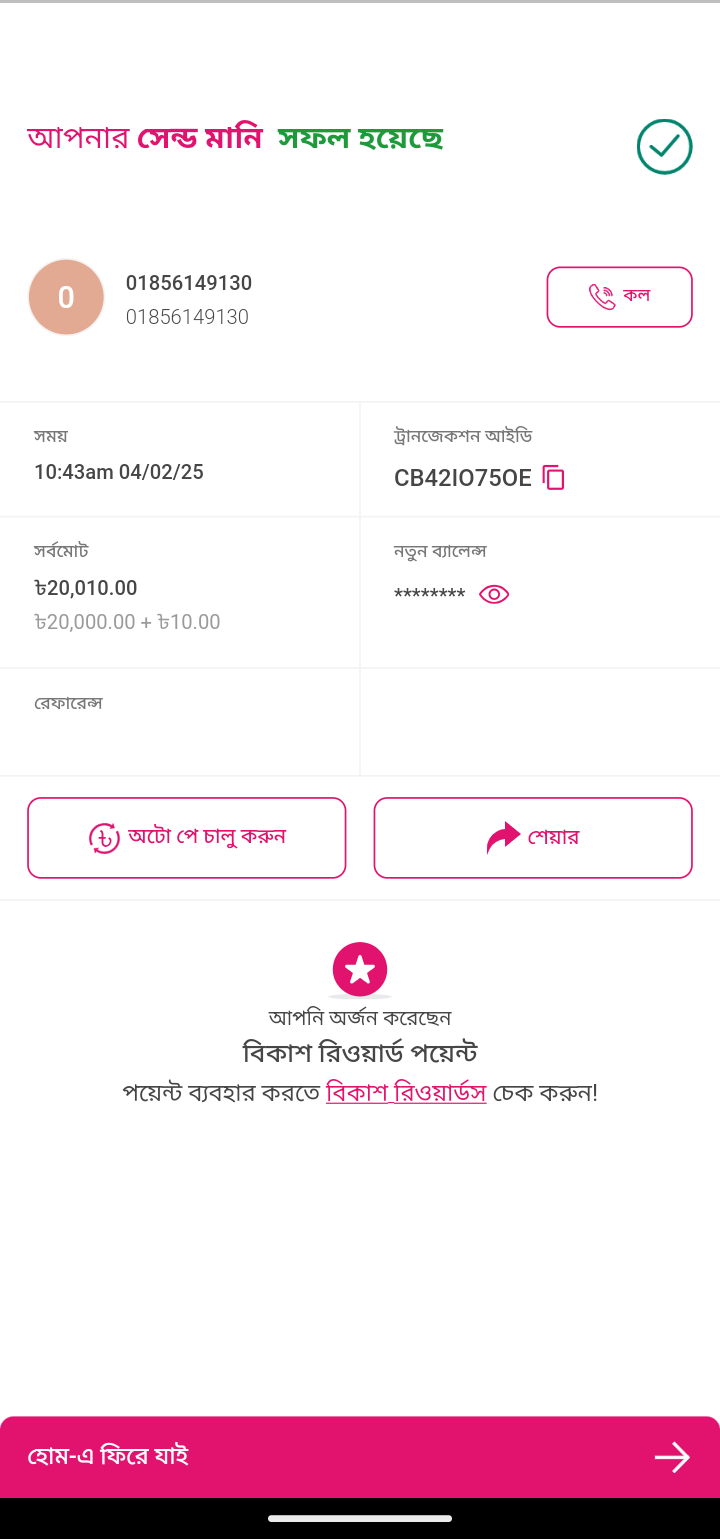
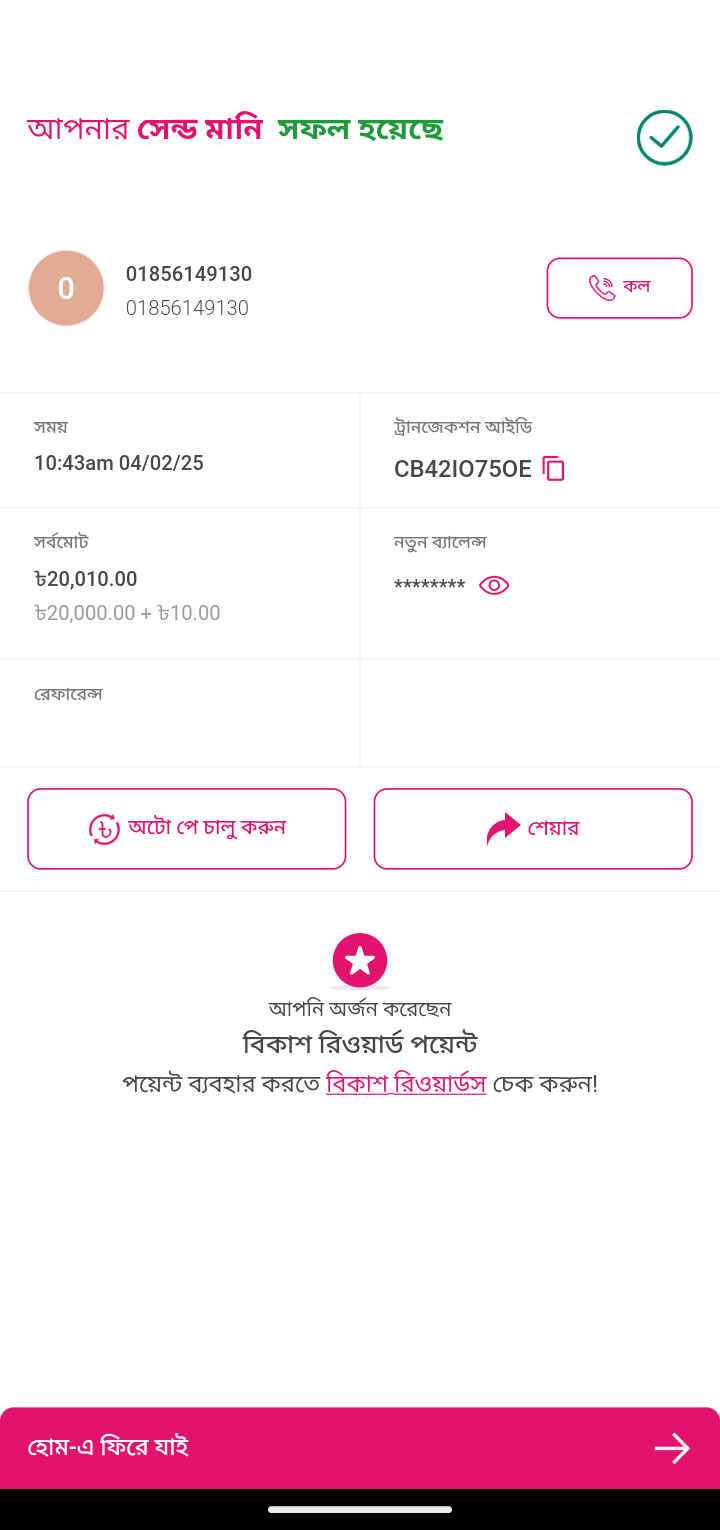
fixed

diff --git a/style.css b/style.css
@@ -45,3 +45,58 @@ img{
  outline: none;
  border: none;
 }
+
+
+.number-1,.number-2 {
+    /* border: 1px solid; */
+    border: border 1px solid black;
+    background: white;
+    width: fit-content;
+    height: fit-content;
+    display: flex;
+    justify-content: center;
+    align-items: center;
+    color: #494949d9;
+    font-size: 15px;
+    font-weight: 550;
+    position: absolute;
+    z-index: 10;
+    top: 154px;
+     left: 73px;
+    outline: none;
+}
+
+.number-2{
+    color:#717171;
+    font-weight: 400;
+        top: 172px;
+        left: 73px;
+        outline: none;
+        border:none
+    }
+
+    .time{
+        position: absolute ;
+        z-index: 10;
+        top: 263px;
+            left: 21px;
+            outline: none;
+            border: none;
+            font-size: 13.5px;
+            font-weight: 550;
+            color: #494949d9;
+            background: white;
+    }
+    .id{
+        position: absolute ;
+        z-index: 10;
+        text-transform: uppercase;
+        top: 267px;
+            left: 230px;
+            outline: none;
+            border: none;
+            font-size: 13.5px;
+            font-weight: 700;
+            color: #494949d9;
+            background: white;
+    }

diff --git a/send.html b/send.html
@@ -1,0 +1,26 @@
+<!DOCTYPE html>
+<html lang="en">
+
+<head>
+    <meta charset="UTF-8">
+    <meta name="viewport" content="width=device-width, initial-scale=1.0">
+    <title></title>
+    <link rel="stylesheet" href="style.css">
+</head>
+
+<body>
+    <div class="container">
+        <div class="bk-send ">
+            <img src="./img/send-mony.png" alt="">
+            <div contenteditable="" class="number-1">0156339136</div>
+            <div contenteditable="" class="number-2">0156339136</div>
+
+            <!-- time -->
+        <div contenteditable="" class="time">12:30am 04/02/25</div>
+        <div contenteditable="" class="id">cb42io75oe</div>
+        </div>
+    </div>
+
+</body>
+
+</html>
